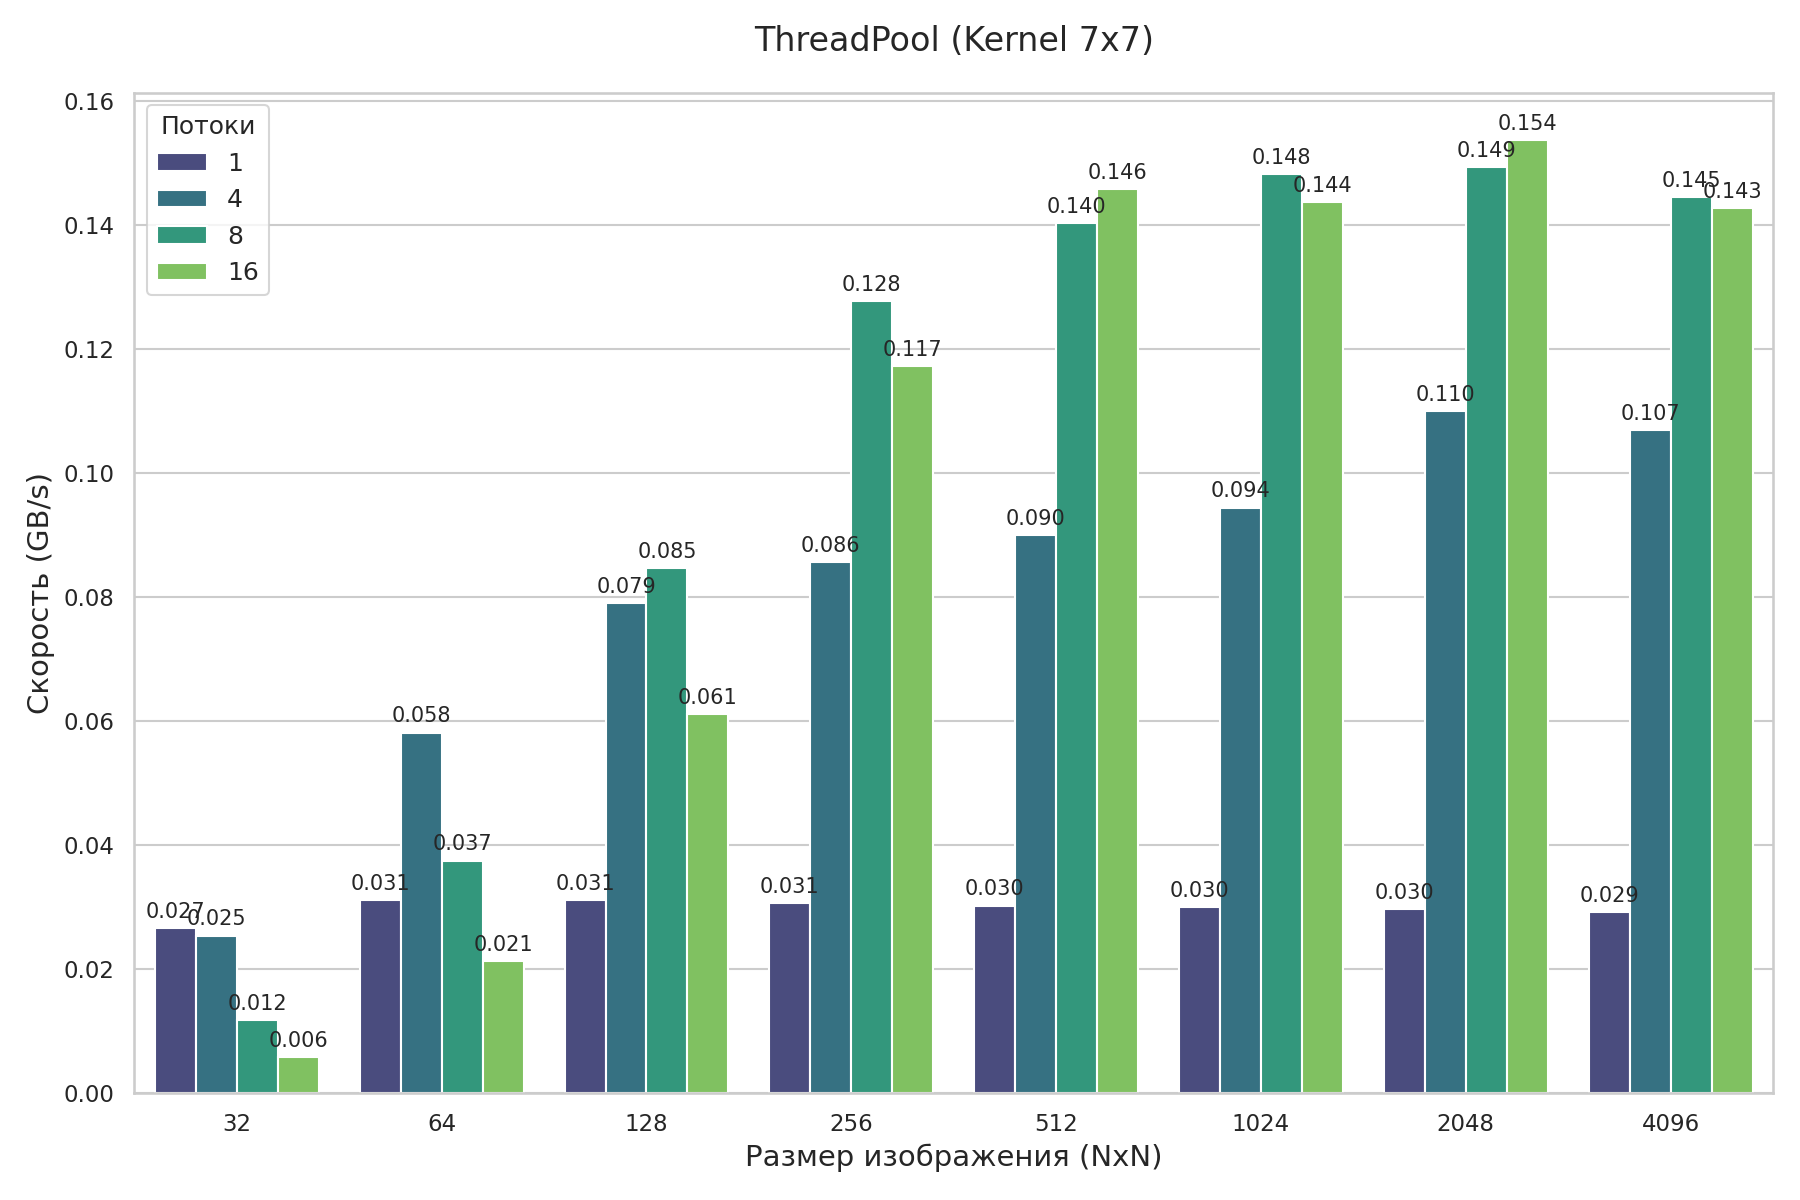
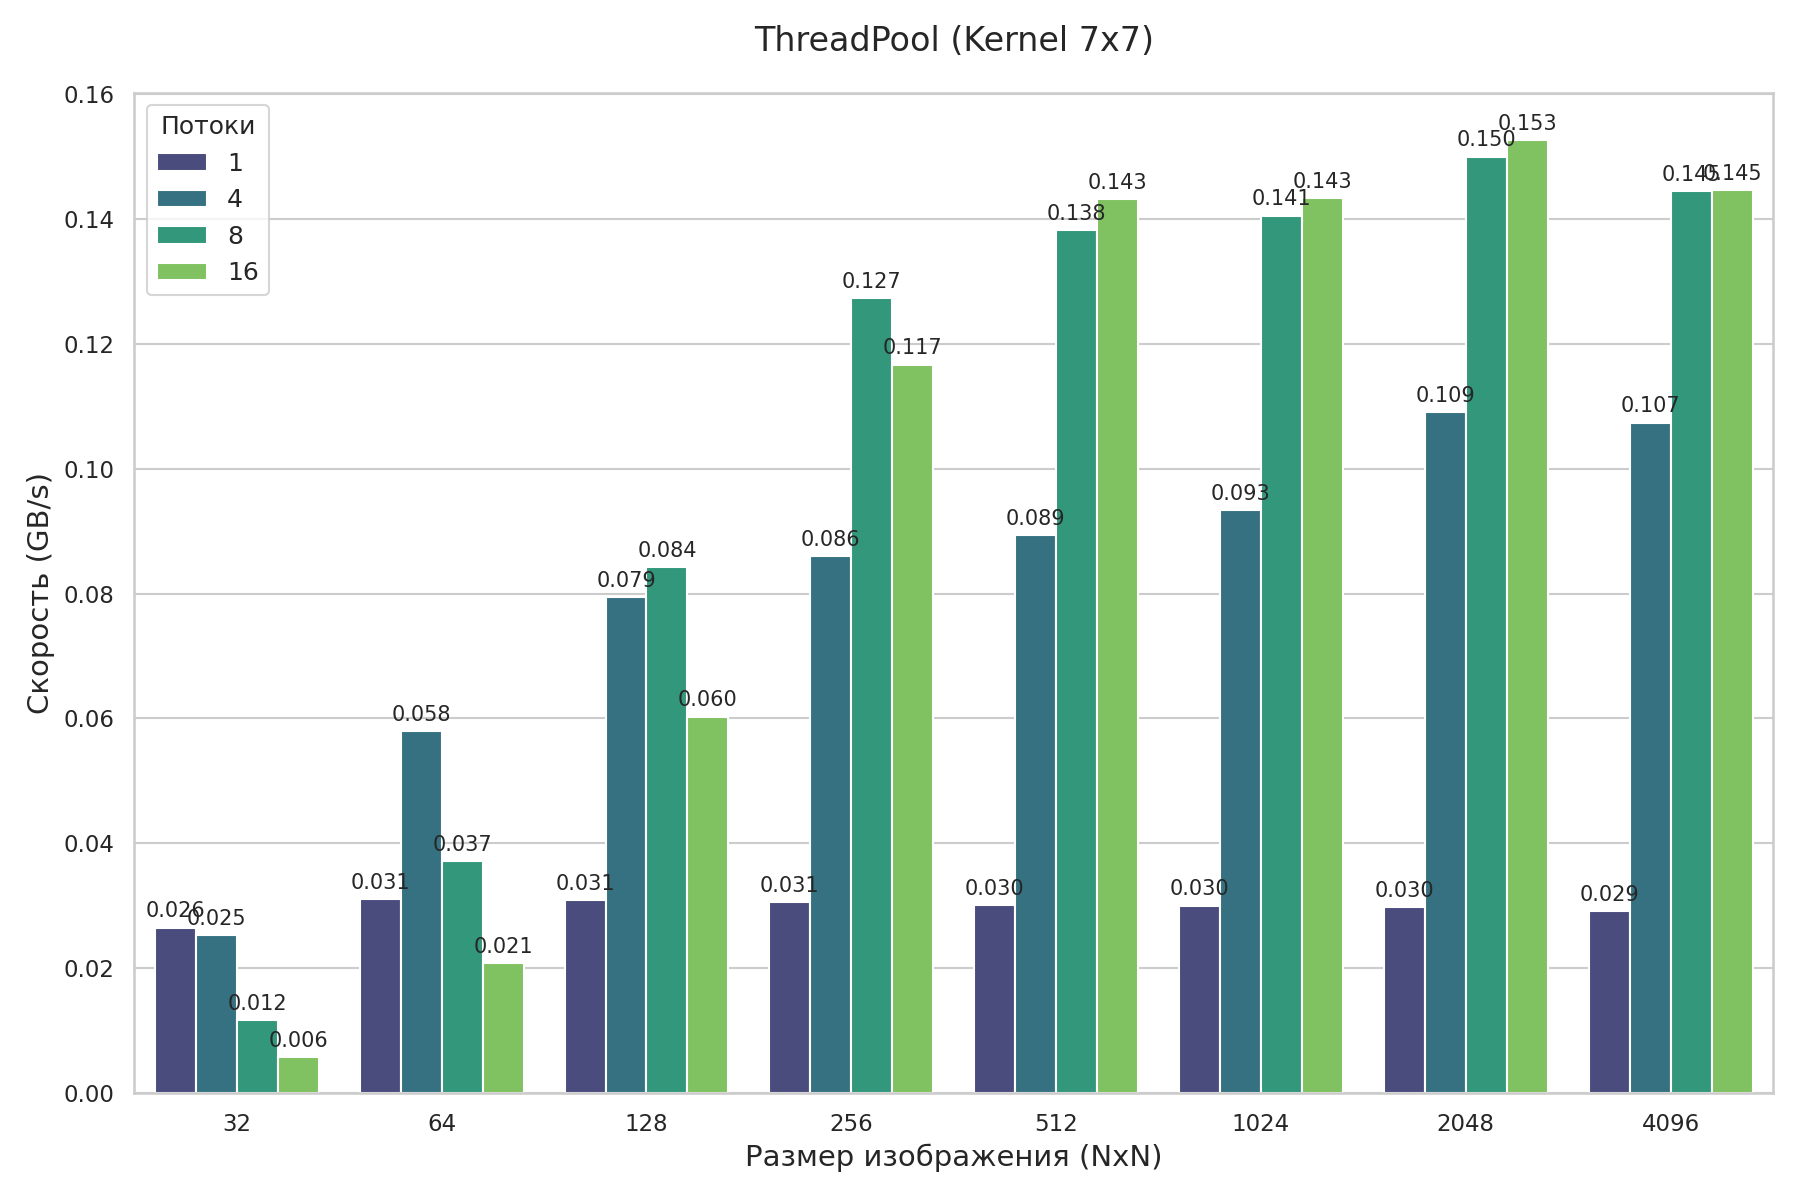
change function

diff --git a/src/image_convolver.cpp b/src/image_convolver.cpp
@@ -2,7 +2,6 @@
 #include "thread_pool.h"
 #include <iostream>
 #include <algorithm>
-#include <atomic>
 #include <future>
 
 #ifndef STB_IMAGE_IMPLEMENTATION
@@ -312,98 +311,75 @@ std::vector<unsigned char> ImageConvolver::process_thread_pool_full(const unsign
     int kHalfW = m_kW / 2;
     int kHalfH = m_kH / 2;
 
-    int yBegin = kHalfH;
-    int yEnd = h - kHalfH;
     int xBegin = kHalfW;
     int xEnd = w - kHalfW;
 
     ThreadPool pool(num_threads);
-    size_t threads = pool.get_thread_count();
-
-    // Основная область свертки с динамическим распределением строк
-    if (yBegin < yEnd && xBegin < xEnd) {
-        std::atomic<int> nextRow{yBegin};
-        const int blockRows = 1; // Мелкие блоки строк, чтобы держать потоки занятыми
-
-        std::vector<std::future<void>> futures;
-        futures.reserve(threads);
-
-        for (size_t t = 0; t < threads; ++t) {
-            futures.emplace_back(pool.dispatch_task([&, this]() {
-                while (true) {
-                    int yStart = nextRow.fetch_add(blockRows);
-                    if (yStart >= yEnd) {
-                        break;
-                    }
-                    int yStop = std::min(yStart + blockRows, yEnd);
-
-                    for (int y = yStart; y < yStop; ++y) {
-                        for (int x = xBegin; x < xEnd; ++x) {
-                            float sumR = 0.f, sumG = 0.f, sumB = 0.f;
-
-                            for (int ky = -kHalfH; ky <= kHalfH; ++ky) {
-                                for (int kx = -kHalfW; kx <= kHalfW; ++kx) {
-                                    int srcIdx = ((y + ky) * w + (x + kx)) * 4;
-                                    float wgt = m_kernel[(ky + kHalfH) * m_kW + (kx + kHalfW)];
-
-                                    sumR += wgt * img_in[srcIdx + 0];
-                                    sumG += wgt * img_in[srcIdx + 1];
-                                    sumB += wgt * img_in[srcIdx + 2];
-                                }
-                            }
-
-                            int dstIdx = (y * w + x) * 4;
-                            img_out[dstIdx + 0] = static_cast<unsigned char>(std::clamp(sumR, 0.f, 255.f));
-                            img_out[dstIdx + 1] = static_cast<unsigned char>(std::clamp(sumG, 0.f, 255.f));
-                            img_out[dstIdx + 2] = static_cast<unsigned char>(std::clamp(sumB, 0.f, 255.f));
-                            img_out[dstIdx + 3] = img_in[dstIdx + 3];
-                        }
-                    }
-                }
-            }));
-        }
-
-        for (auto& future : futures) {
-            future.get();
-        }
+    std::vector<std::future<void>> futures;
+    if (h > 0) {
+        futures.reserve(static_cast<size_t>(h));
     }
 
-    // Обработка границ (копирование) с динамическим распределением строк
-    if (h > 0 && w > 0) {
-        std::atomic<int> nextRow{0};
-        const int blockRows = 1; // Мелкие блоки строк, чтобы держать потоки занятыми
+    for (int y = 0; y < h; ++y) {
+        futures.emplace_back(pool.dispatch_task([=, &img_out, this]() {
+            const bool y_border = (y < kHalfH) || (y >= h - kHalfH);
+            if (y_border || xBegin >= xEnd) {
+                for (int x = 0; x < w; ++x) {
+                    int idx = (y * w + x) * 4;
+                    img_out[idx + 0] = img_in[idx + 0];
+                    img_out[idx + 1] = img_in[idx + 1];
+                    img_out[idx + 2] = img_in[idx + 2];
+                    img_out[idx + 3] = img_in[idx + 3];
+                }
+                return;
+            }
 
-        std::vector<std::future<void>> futures;
-        futures.reserve(threads);
+            for (int x = 0; x < xBegin; ++x) {
+                int idx = (y * w + x) * 4;
+                img_out[idx + 0] = img_in[idx + 0];
+                img_out[idx + 1] = img_in[idx + 1];
+                img_out[idx + 2] = img_in[idx + 2];
+                img_out[idx + 3] = img_in[idx + 3];
+            }
 
-        for (size_t t = 0; t < threads; ++t) {
-            futures.emplace_back(pool.dispatch_task([&, this]() {
-                while (true) {
-                    int yStart = nextRow.fetch_add(blockRows);
-                    if (yStart >= h) {
-                        break;
-                    }
-                    int yStop = std::min(yStart + blockRows, h);
+            for (int x = xBegin; x < xEnd; ++x) {
+                float sumR = 0.f, sumG = 0.f, sumB = 0.f;
 
-                    for (int y = yStart; y < yStop; ++y) {
-                        for (int x = 0; x < w; ++x) {
-                            if (y < kHalfH || y >= h - kHalfH ||
-                                x < kHalfW || x >= w - kHalfW) {
-                                int idx = (y * w + x) * 4;
-                                img_out[idx + 0] = img_in[idx + 0];
-                                img_out[idx + 1] = img_in[idx + 1];
-                                img_out[idx + 2] = img_in[idx + 2];
-                                img_out[idx + 3] = img_in[idx + 3];
-                            }
-                        }
+                for (int ky = -kHalfH; ky <= kHalfH; ++ky) {
+                    for (int kx = -kHalfW; kx <= kHalfW; ++kx) {
+                        int sx = x + kx;
+                        int sy = y + ky;
+                        int srcIdx = (sy * w + sx) * 4;
+
+                        int kkx = kx + kHalfW;
+                        int kky = ky + kHalfH;
+                        float wgt = m_kernel[kky * m_kW + kkx];
+
+                        sumR += wgt * img_in[srcIdx + 0];
+                        sumG += wgt * img_in[srcIdx + 1];
+                        sumB += wgt * img_in[srcIdx + 2];
                     }
                 }
-            }));
-        }
 
-        for (auto& future : futures) {
-            future.get();
-        }
+                int dstIdx = (y * w + x) * 4;
+                img_out[dstIdx + 0] = static_cast<unsigned char>(std::clamp(sumR, 0.f, 255.f));
+                img_out[dstIdx + 1] = static_cast<unsigned char>(std::clamp(sumG, 0.f, 255.f));
+                img_out[dstIdx + 2] = static_cast<unsigned char>(std::clamp(sumB, 0.f, 255.f));
+                img_out[dstIdx + 3] = img_in[dstIdx + 3];
+            }
+
+            for (int x = xEnd; x < w; ++x) {
+                int idx = (y * w + x) * 4;
+                img_out[idx + 0] = img_in[idx + 0];
+                img_out[idx + 1] = img_in[idx + 1];
+                img_out[idx + 2] = img_in[idx + 2];
+                img_out[idx + 3] = img_in[idx + 3];
+            }
+        }));
+    }
+
+    for (auto& future : futures) {
+        future.get();
     }
 
     return img_out;

diff --git a/test/main.cpp b/test/main.cpp
@@ -1,3 +1,5 @@
+#include <fstream>
+#include <functional>
 #include <iostream>
 #include <string>
 #include <vector>
@@ -21,12 +23,55 @@ std::vector<float> gaussian_kernel_3x3() {
     };
 }
 
-using ProcessFn = std::vector<unsigned char> (ImageConvolver::*)(const unsigned char*, int, int);
+using ProcessFn = std::function<std::vector<unsigned char>(ImageConvolver&, const unsigned char*, int, int)>;
+
+bool file_exists(const std::string& path) {
+    std::ifstream file(path, std::ios::binary);
+    return file.good();
+}
+
+bool create_test_image(const std::string& output_path, ImageConvolver& convolver, int w, int h) {
+    if (w <= 0 || h <= 0) {
+        std::cerr << "Invalid test image size." << std::endl;
+        return false;
+    }
+
+    std::vector<unsigned char> img(static_cast<size_t>(w) * static_cast<size_t>(h) * 4);
+    const int w_den = (w > 1) ? (w - 1) : 1;
+    const int h_den = (h > 1) ? (h - 1) : 1;
+
+    for (int y = 0; y < h; ++y) {
+        for (int x = 0; x < w; ++x) {
+            int idx = (y * w + x) * 4;
+            img[idx + 0] = static_cast<unsigned char>((x * 255) / w_den);
+            img[idx + 1] = static_cast<unsigned char>((y * 255) / h_den);
+            img[idx + 2] = static_cast<unsigned char>((x + y) % 256);
+            img[idx + 3] = 255;
+        }
+    }
+
+    if (!convolver.saveImage(output_path.c_str(), w, h, img.data())) {
+        std::cerr << "Failed to create test image: " << output_path << std::endl;
+        return false;
+    }
+
+    std::cout << "Created test image: " << output_path << std::endl;
+    return true;
+}
+
+bool ensure_input_image(const std::string& input_path, ImageConvolver& convolver) {
+    if (file_exists(input_path)) {
+        return true;
+    }
+
+    std::cerr << "Input image not found, generating: " << input_path << std::endl;
+    return create_test_image(input_path, convolver, 256, 256);
+}
 
 bool process_and_save(ImageConvolver& convolver,
                       const std::string& input_path,
                       const std::string& output_path,
-                      ProcessFn process) {
+                      const ProcessFn& process) {
     int w = 0;
     int h = 0;
     int channels = 0;
@@ -37,7 +82,7 @@ bool process_and_save(ImageConvolver& convolver,
         return false;
     }
 
-    std::vector<unsigned char> out = (convolver.*process)(img, w, h);
+    std::vector<unsigned char> out = process(convolver, img, w, h);
     stbi_image_free(img);
 
     if (out.empty()) {
@@ -62,15 +107,27 @@ int main(int argc, char** argv) {
     const std::vector<float> kernel = gaussian_kernel_3x3();
     ImageConvolver convolver(kernel, 3, 3);
 
+    if (!ensure_input_image(input_path, convolver)) {
+        return 1;
+    }
+
     bool ok = true;
     ok &= process_and_save(convolver, input_path, "img_blur_default.jpg",
-                           &ImageConvolver::process_default);
+                           [](ImageConvolver& c, const unsigned char* img, int w, int h) {
+                               return c.process_default(img, w, h);
+                           });
     ok &= process_and_save(convolver, input_path, "img_blur_simd.jpg",
-                           &ImageConvolver::process_SIMD);
+                           [](ImageConvolver& c, const unsigned char* img, int w, int h) {
+                               return c.process_SIMD(img, w, h);
+                           });
     ok &= process_and_save(convolver, input_path, "img_blur_thread_pool.jpg",
-                           &ImageConvolver::process_thread_pool);
+                           [](ImageConvolver& c, const unsigned char* img, int w, int h) {
+                               return c.process_thread_pool(img, w, h, 0);
+                           });
     ok &= process_and_save(convolver, input_path, "img_blur_thread_pool_full.jpg",
-                           &ImageConvolver::process_thread_pool_full);
+                           [](ImageConvolver& c, const unsigned char* img, int w, int h) {
+                               return c.process_thread_pool_full(img, w, h, 0);
+                           });
 
     return ok ? 0 : 1;
 }

diff --git a/plot/image.py b/plot/image.py
@@ -83,14 +83,14 @@ if USE_TIME:
     METRIC_LABEL = f'Время ({TIME_UNIT})'
     MAIN_TITLE_TEMPLATE = 'Время на итерацию (Kernel {k}x{k})'
     TP_TITLE_TEMPLATE = 'ThreadPool: время на итерацию (Kernel {k}x{k})'
-    TPF_TITLE_TEMPLATE = 'ThreadPool Full: время на итерацию (Kernel {k}x{k})'
+    TPF_TITLE_TEMPLATE = 'ThreadPool Rows: время на итерацию (Kernel {k}x{k})'
     VALUE_FORMAT = '%.3f'
 else:
     METRIC_FIELD = 'Speed (GB/s)'
     METRIC_LABEL = 'Скорость (GB/s)'
     MAIN_TITLE_TEMPLATE = 'Производительность (Kernel {k}x{k})'
     TP_TITLE_TEMPLATE = 'ThreadPool (Kernel {k}x{k})'
-    TPF_TITLE_TEMPLATE = 'ThreadPool Full (Kernel {k}x{k})'
+    TPF_TITLE_TEMPLATE = 'ThreadPool Rows (Kernel {k}x{k})'
     VALUE_FORMAT = '%.3f'
 
 # 1. Парсинг данных
@@ -148,8 +148,8 @@ for bench in data['benchmarks']:
         method_group = 'SIMD'
         method = 'SIMD (AVX-512)'
     elif 'ThreadPoolFull' in method_raw:
-        method_group = 'ThreadPool Full'
-        method = f'ThreadPool Full (T={threads})' if threads is not None else 'ThreadPool Full'
+        method_group = 'ThreadPool Rows'
+        method = f'ThreadPool Rows (T={threads})' if threads is not None else 'ThreadPool Rows'
     elif 'ThreadPool' in method_raw:
         method_group = 'ThreadPool'
         method = f'ThreadPool (T={threads})' if threads is not None else 'ThreadPool'
@@ -173,7 +173,7 @@ df['Threads Label'] = df['Threads'].apply(lambda x: str(int(x)) if pd.notna(x) e
 df['Threads Label'] = pd.Categorical(df['Threads Label'], categories=THREAD_LABELS, ordered=True)
 
 # 2. Фильтрация по числу потоков для общего графика
-threadpool_groups = ['ThreadPool', 'ThreadPool Full']
+threadpool_groups = ['ThreadPool', 'ThreadPool Rows']
 df_main = df.copy()
 for group in threadpool_groups:
     group_mask = df_main['Method Group'] == group
@@ -241,14 +241,14 @@ for k_size in kernel_sizes:
     
     tpf_subset = df[
         (df['Kernel Size'] == k_size)
-        & (df['Method Group'] == 'ThreadPool Full')
+        & (df['Method Group'] == 'ThreadPool Rows')
         & (df['Threads'].isin(THREAD_COUNTS))
     ]
     if not tpf_subset.empty:
         save_plot(
             tpf_subset,
             TPF_TITLE_TEMPLATE.format(k=k_size),
-            f'benchmark_image_kernel_{k_size}_threadpool_full.png',
+            f'benchmark_image_kernel_{k_size}_threadpool_rows.png',
             hue='Threads Label',
             legend_title='Потоки',
             hue_order=THREAD_LABELS

diff --git a/inc/image_convolver.h b/inc/image_convolver.h
@@ -59,7 +59,7 @@ public:
     std::vector<unsigned char> process_thread_pool(const unsigned char* img_in, int w, int h, size_t num_threads = 0);
 
     /**
-     * @brief Выполняет свертку RGB изображения, максимально загружая все потоки.
+     * @brief Выполняет свертку RGB изображения, создавая задачу на каждую строку.
      * Картинка передается по указателю, результат возвращается вектором (RAII).
      * 
      * @param img_in Указатель на исходные данные.

diff --git a/image_main.cpp b/image_main.cpp
@@ -130,7 +130,7 @@ BENCHMARK_DEFINE_F(BlurFixture, BM_ProcessThreadPool)(benchmark::State& state) {
     state.SetBytesProcessed(total_iters * int64_t(w) * int64_t(h) * 4);
 }
 
-// 4. Бенчмарк для ThreadPool (максимальная загрузка потоков)
+// 4. Бенчмарк для ThreadPool (задача на каждую строку)
 BENCHMARK_DEFINE_F(BlurFixture, BM_ProcessThreadPoolFull)(benchmark::State& state) {
     size_t threads = static_cast<size_t>(state.range(2));
     const int64_t batch = kMinBenchmarkIterations;
